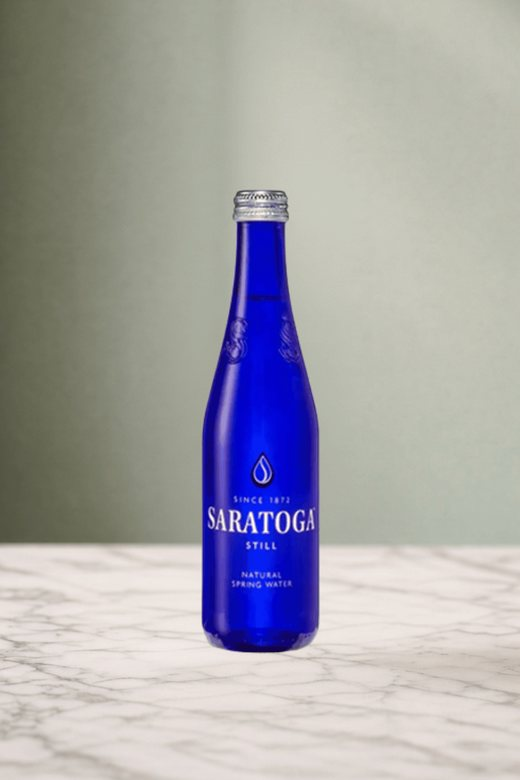
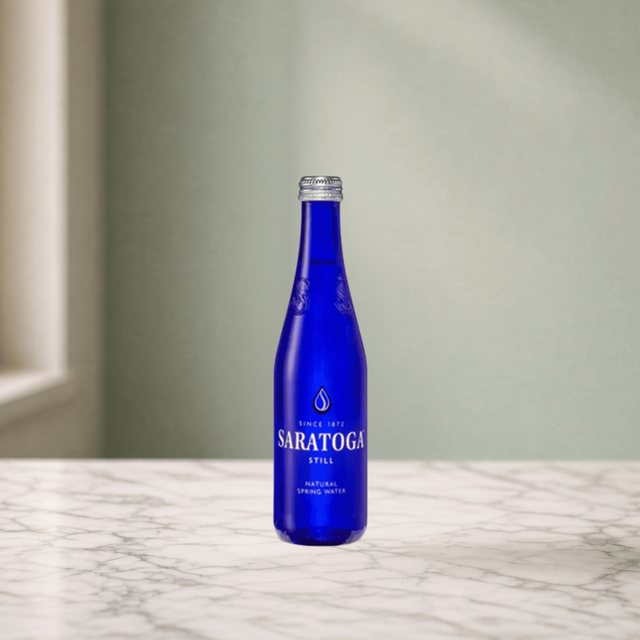
Add files via upload

diff --git a/src/components/OrderPage.jsx b/src/components/OrderPage.jsx
@@ -165,7 +165,7 @@ export default function WaterDeliverySite() {
           {SKUS.map((s) => (
             <div key={s.id} style={{ background: qty[s.id] > 0 ? C.mist : "#fff", padding: "26px 24px", transition: "background .25s", display: "flex", flexDirection: "column" }}>
               <img src={s.img} alt={`${s.brand} ${s.detail}`} loading="lazy"
-                style={{ width: "100%", height: 210, objectFit: "cover", objectPosition: "center 62%", borderRadius: 2, display: "block" }} />
+                style={{ width: "100%", aspectRatio: "1 / 1", objectFit: "cover", borderRadius: 2, display: "block" }} />
               <div style={{ display: "flex", alignItems: "baseline", justifyContent: "space-between", marginTop: 16 }}>
                 <div style={{ fontFamily: "'Cormorant Garamond', serif", fontSize: 26, fontWeight: 600, color: C.bottle }}>{s.brand}</div>
                 <span style={{
